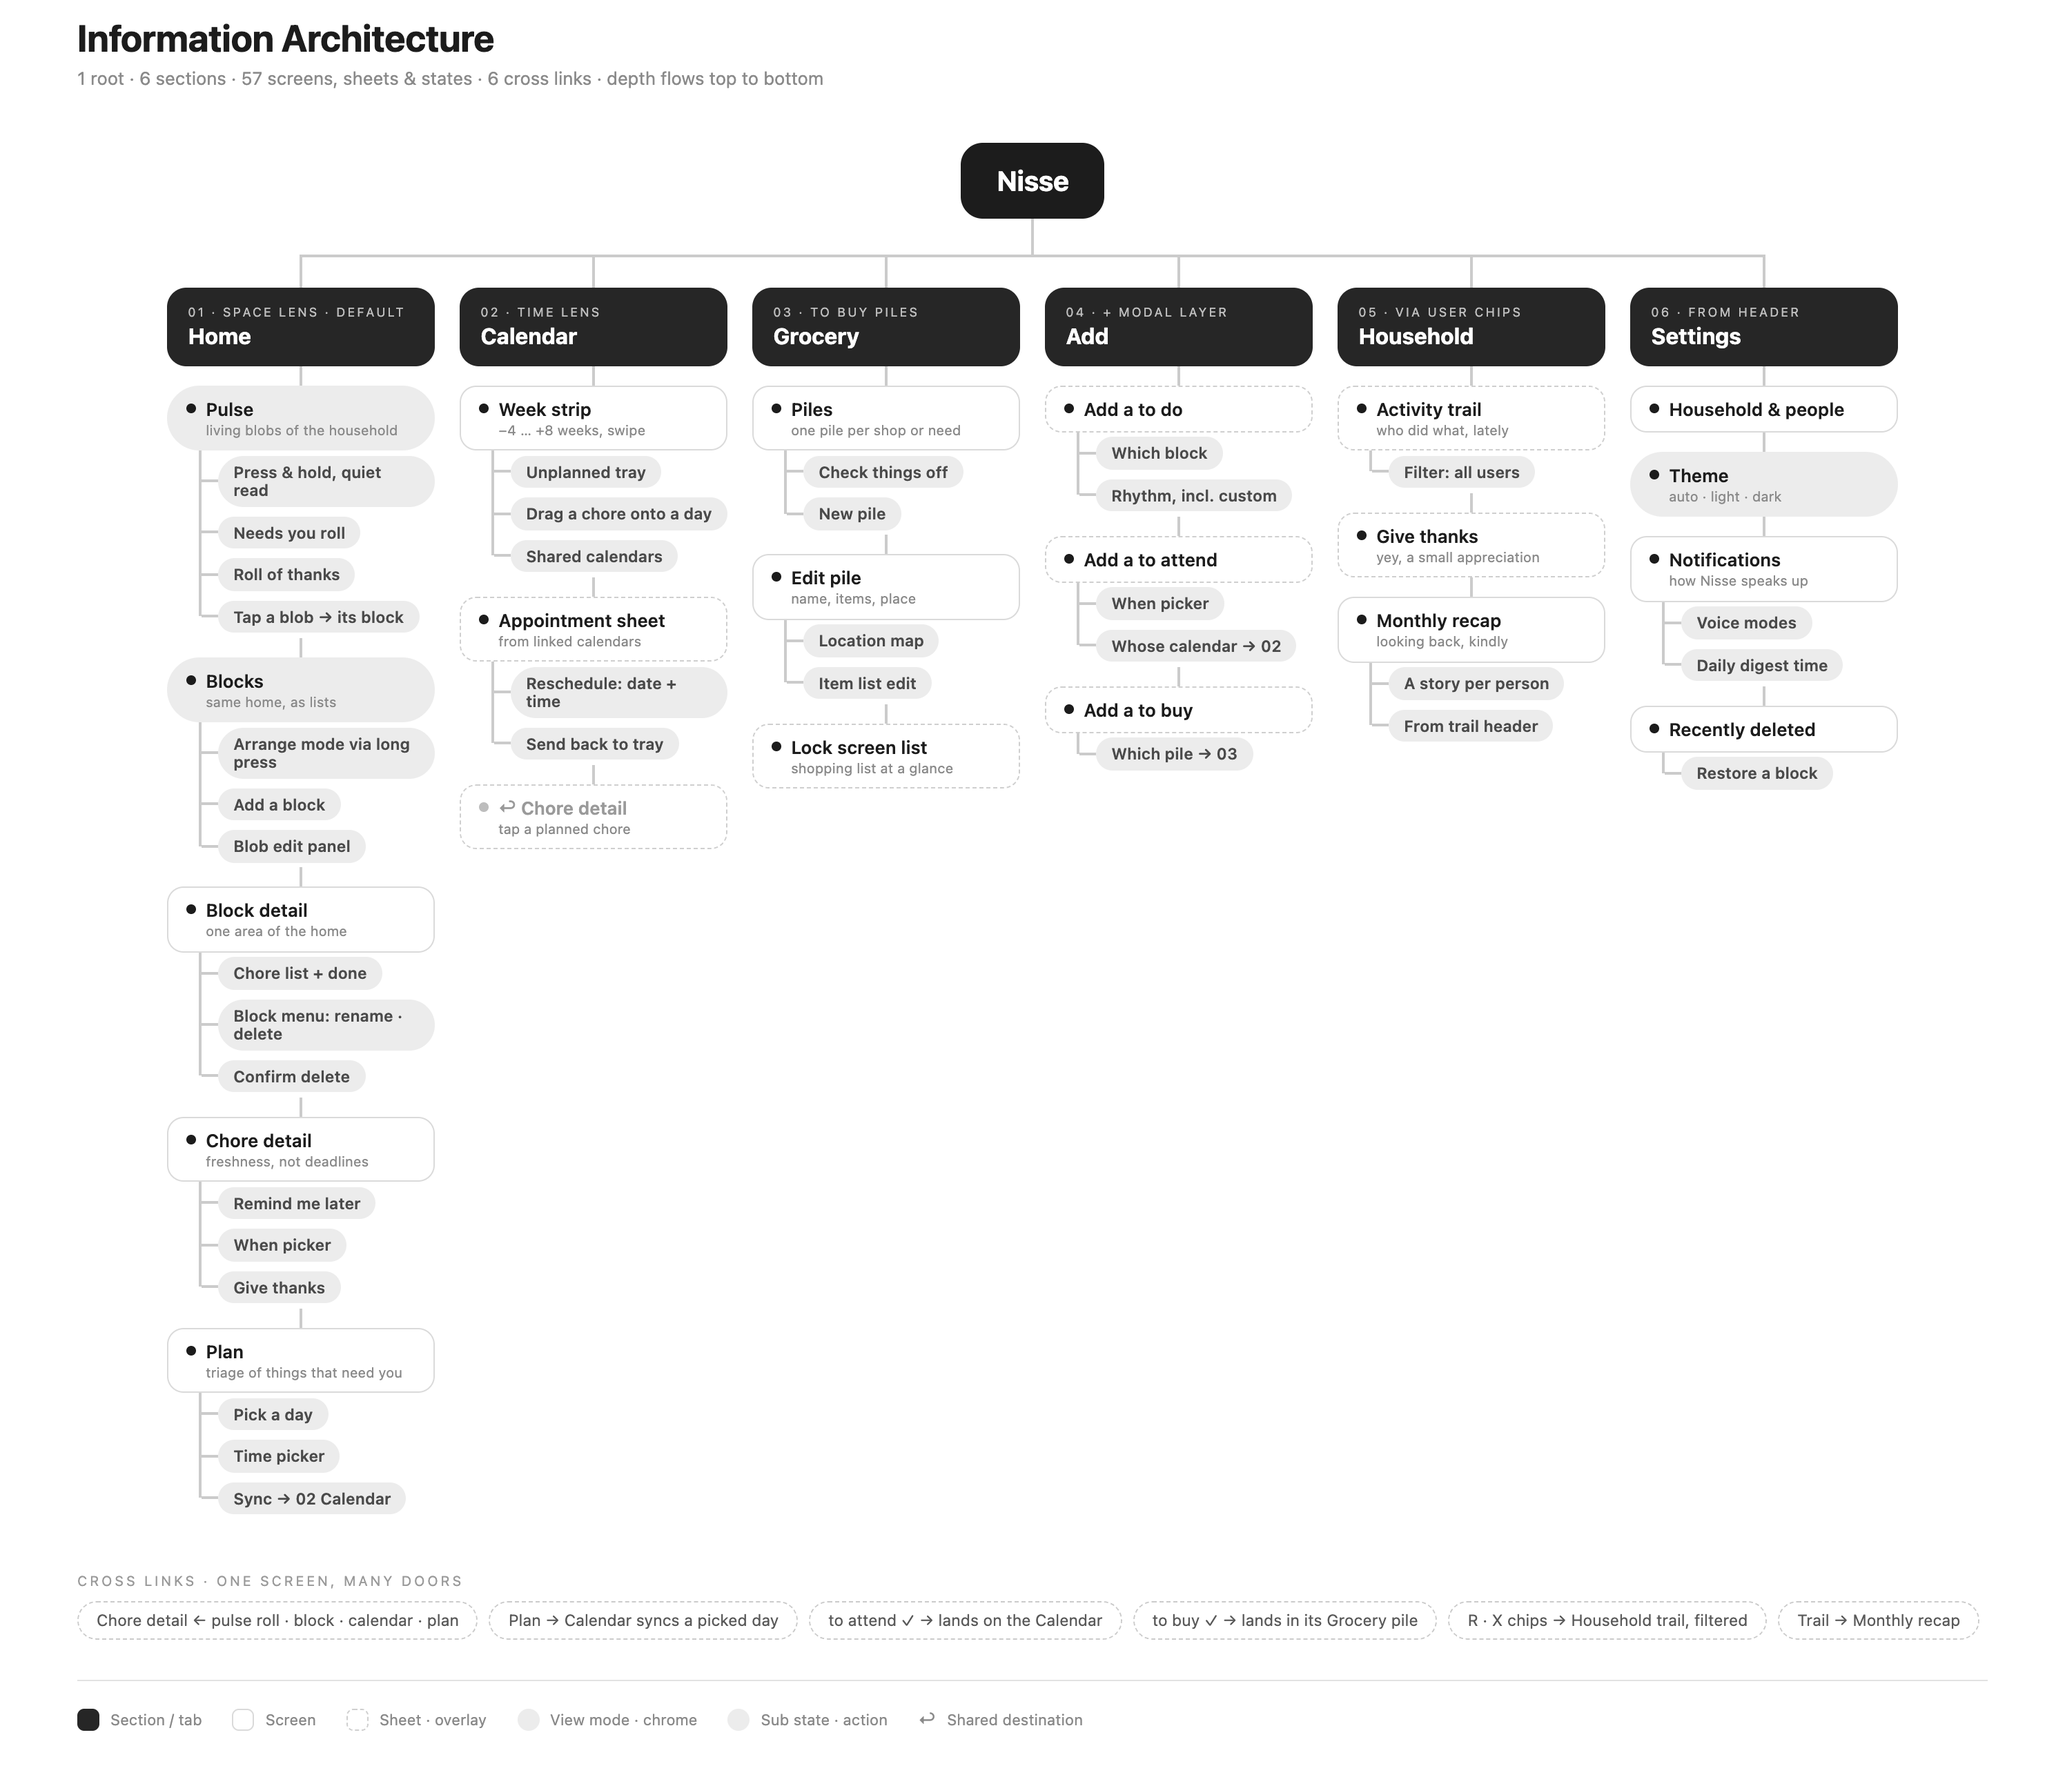
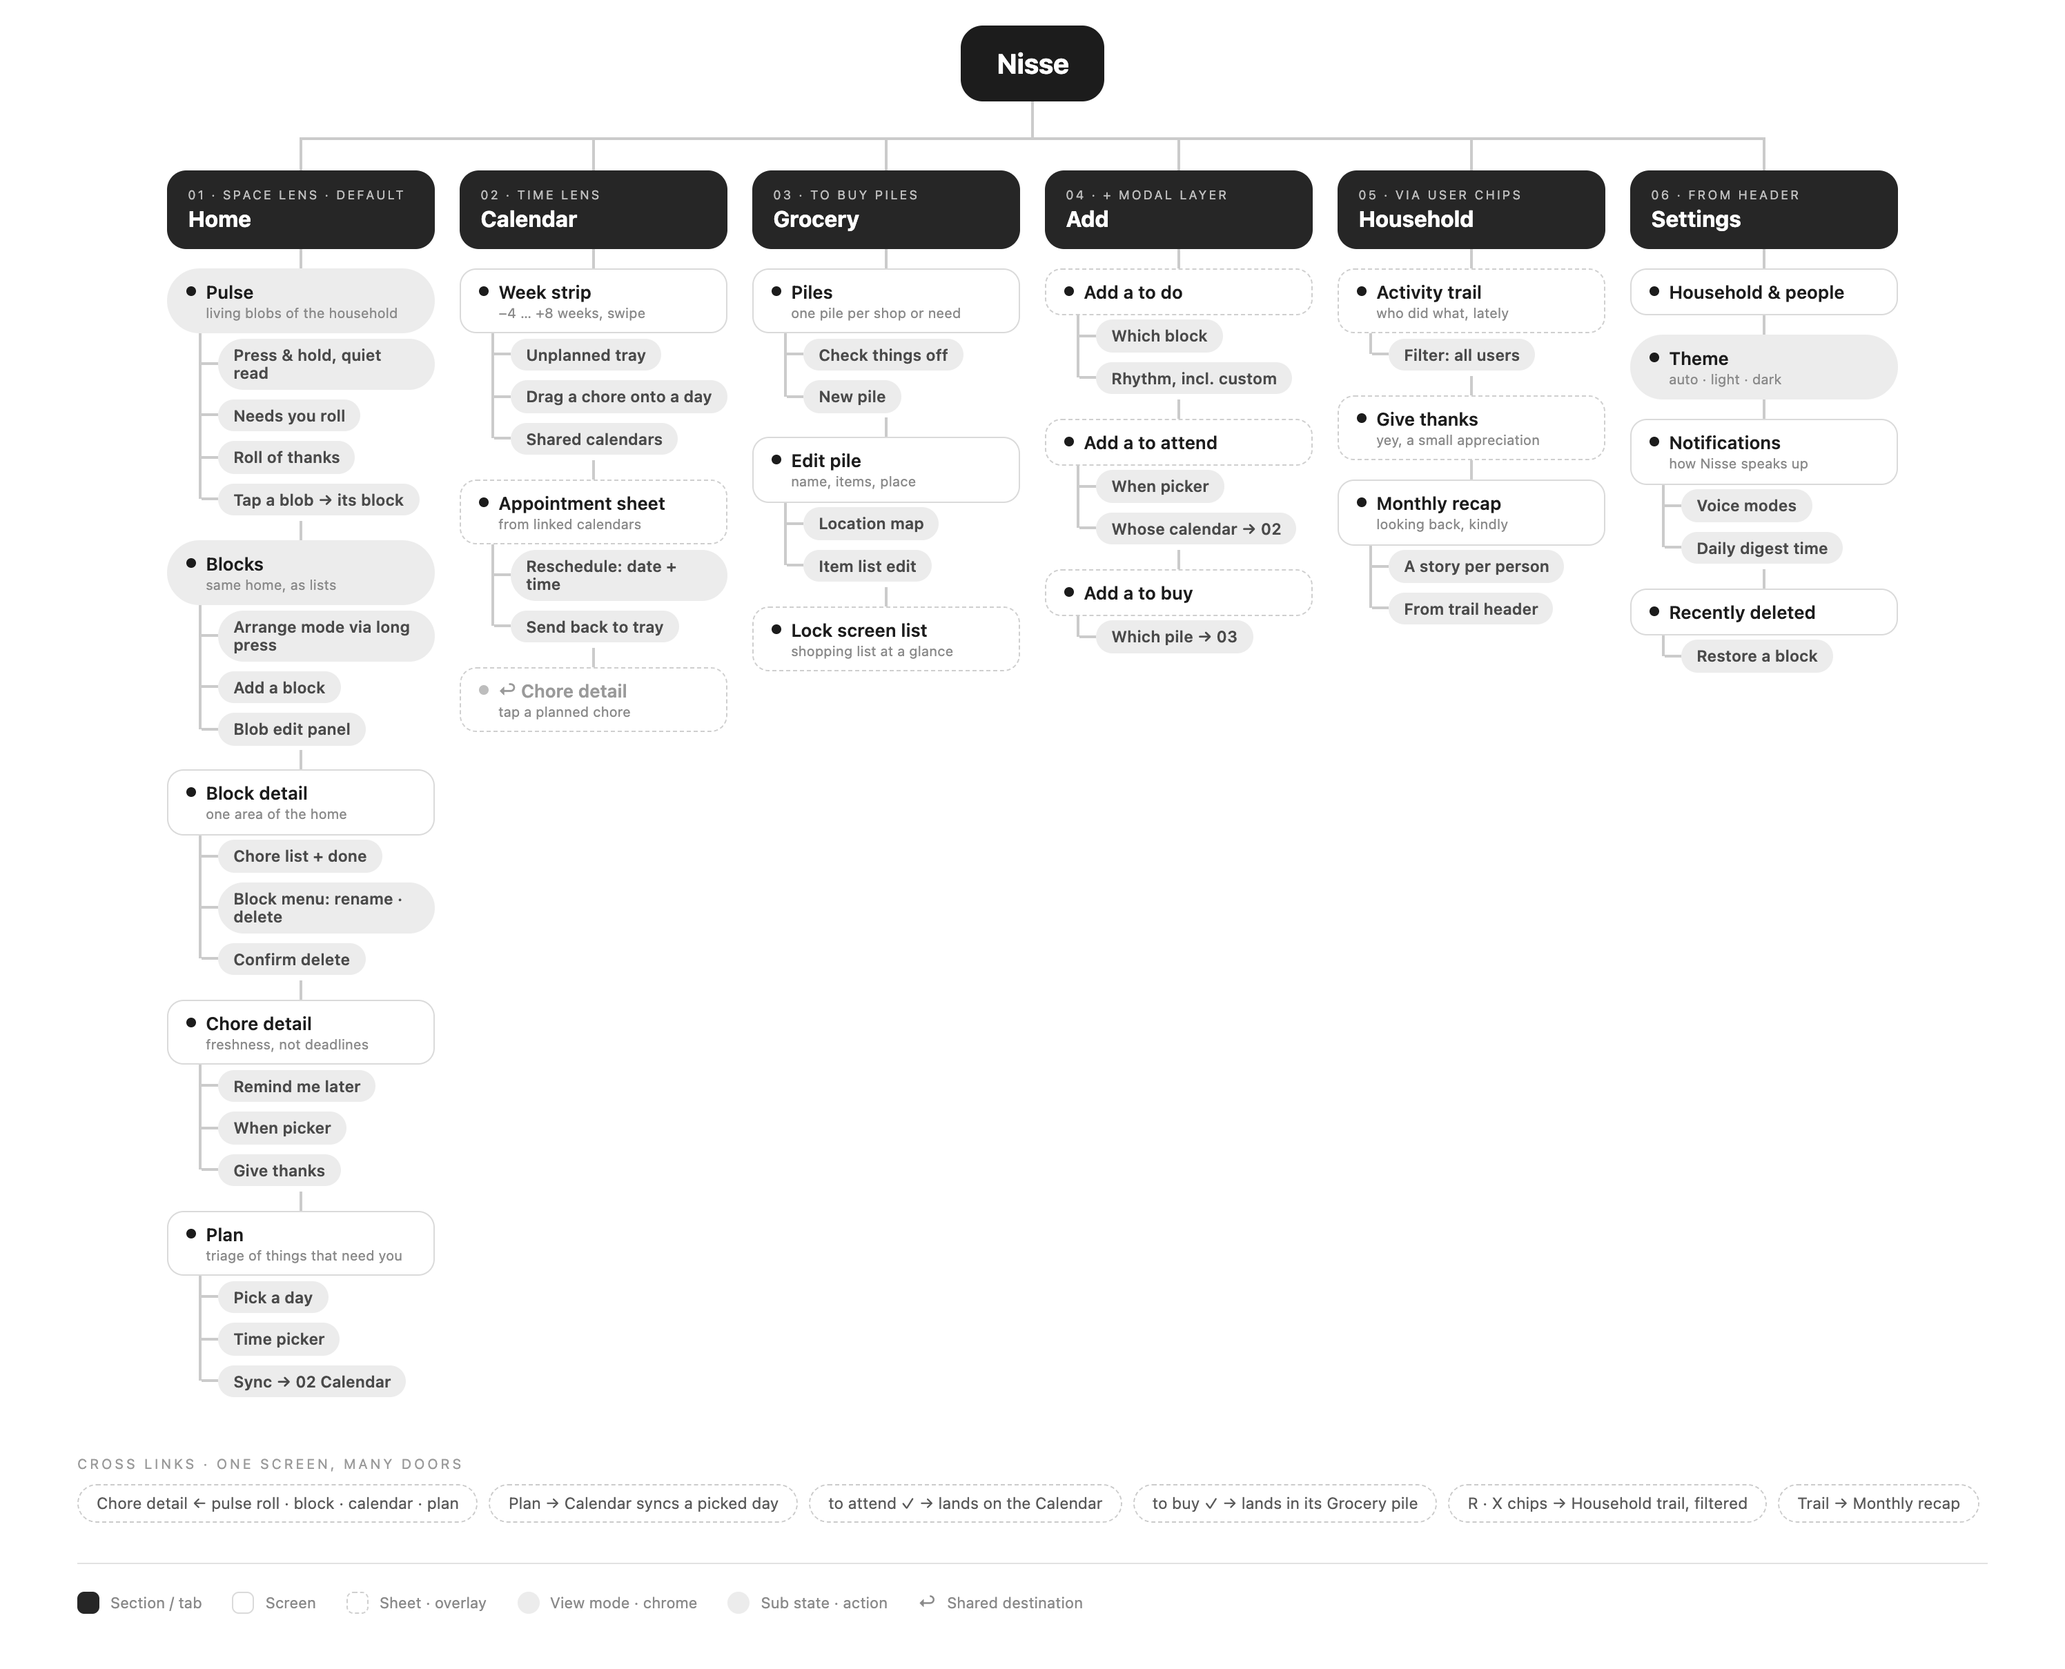
Combine Nisse visual language and IA into one 'look and the logic' board
Merge the visual-language and information-architecture boards into a single
cream feature card titled 'The look and the logic', each board carrying a
small label. Crop the baked-in title and subtitle off the IA image so the
section heading carries it instead.

Claude-Session: https://claude.ai/code/session_0156W3r8YhTT5m85fXXv2v4n

diff --git a/highlight-nisse.html b/highlight-nisse.html
@@ -258,24 +258,26 @@
             </video>
           </div>
 
-          <!-- ===== The visual language ===== -->
-          <div class="photo-feature photo-feature--navy-titles">
+          <!-- ===== The look and the logic — visual language + information architecture ===== -->
+          <div class="photo-feature photo-feature--navy-titles nisse-look-logic">
             <div class="detail-text">
-              <p class="title-serif">The visual language</p>
+              <p class="title-serif">The look and the logic</p>
               <p>The colors had a narrow brief: calm, but warm. Office blues read as work and candy brights read as a game, and neither belongs in a living room. Muted, dusty tones landed in between. They are soft enough to live on a home screen all day, and warm enough that the app feels like it likes you. The same softness runs through everything else &mdash; the shapes, the type, even the way Nisse talks.</p>
             </div>
 
-            <!-- Visual system: the design language board -->
+            <!-- The visual system: palette, type, states, shape -->
             <figure class="nisse-language-board">
+              <figcaption class="board-label">Visual language</figcaption>
               <img src="assets/nisse-visual-language.png" alt="The Nisse design language board: the five muted zone hues with their hex values, the amber ripening and red overdue states, the paper and after-dark grounds, the typeface, and the soft blob shapes and voice" loading="lazy" />
             </figure>
 
-          </div>
+            <!-- The whole app on one board: one root, six sections, 57 screens -->
+            <figure class="nisse-ia-board">
+              <figcaption class="board-label">Information architecture</figcaption>
+              <img src="assets/nisse-information-architecture.png" alt="The Nisse information architecture: one root, six sections and 57 screens, sheets and states. Home, Calendar, Grocery, Add, Household and Settings run as columns, depth flowing top to bottom, with a dashed cross links row at the bottom" loading="lazy" />
+            </figure>
 
-          <!-- ===== The Information Architecture — image only ===== -->
-          <figure class="nisse-ia-board">
-            <img src="assets/nisse-information-architecture.png" alt="The Nisse information architecture board: one root, six sections and 57 screens, sheets and states. Home, Calendar, Grocery, Add, Household and Settings run as columns, depth flowing top to bottom, with a dashed cross links row at the bottom" loading="lazy" />
-          </figure>
+          </div>
 
           <!-- ===== The screens — three filmstrip shelves ===== -->
           <div class="photo-feature photo-feature--navy-titles nisse-screens">

diff --git a/assets/styles.css b/assets/styles.css
@@ -3922,6 +3922,17 @@ a.t-org:hover { color: var(--on-surface); }
   width: 100%;
   height: auto;
 }
+/* The look and the logic — a small label above each board so the two read as
+   a titled pair (the IA image no longer carries its own baked-in heading). */
+.board-label {
+  font-family: var(--font-grotesque);
+  font-size: 13px;
+  font-weight: 600;
+  letter-spacing: 0.1em;
+  text-transform: uppercase;
+  color: var(--on-surface-variant);
+  margin: 0 0 var(--space-sm);
+}
 
 /* The screens — the running app on three filmstrip shelves. Each shelf is a
    sideways-scrolling strip: a lead card carrying the group narrative, then the
